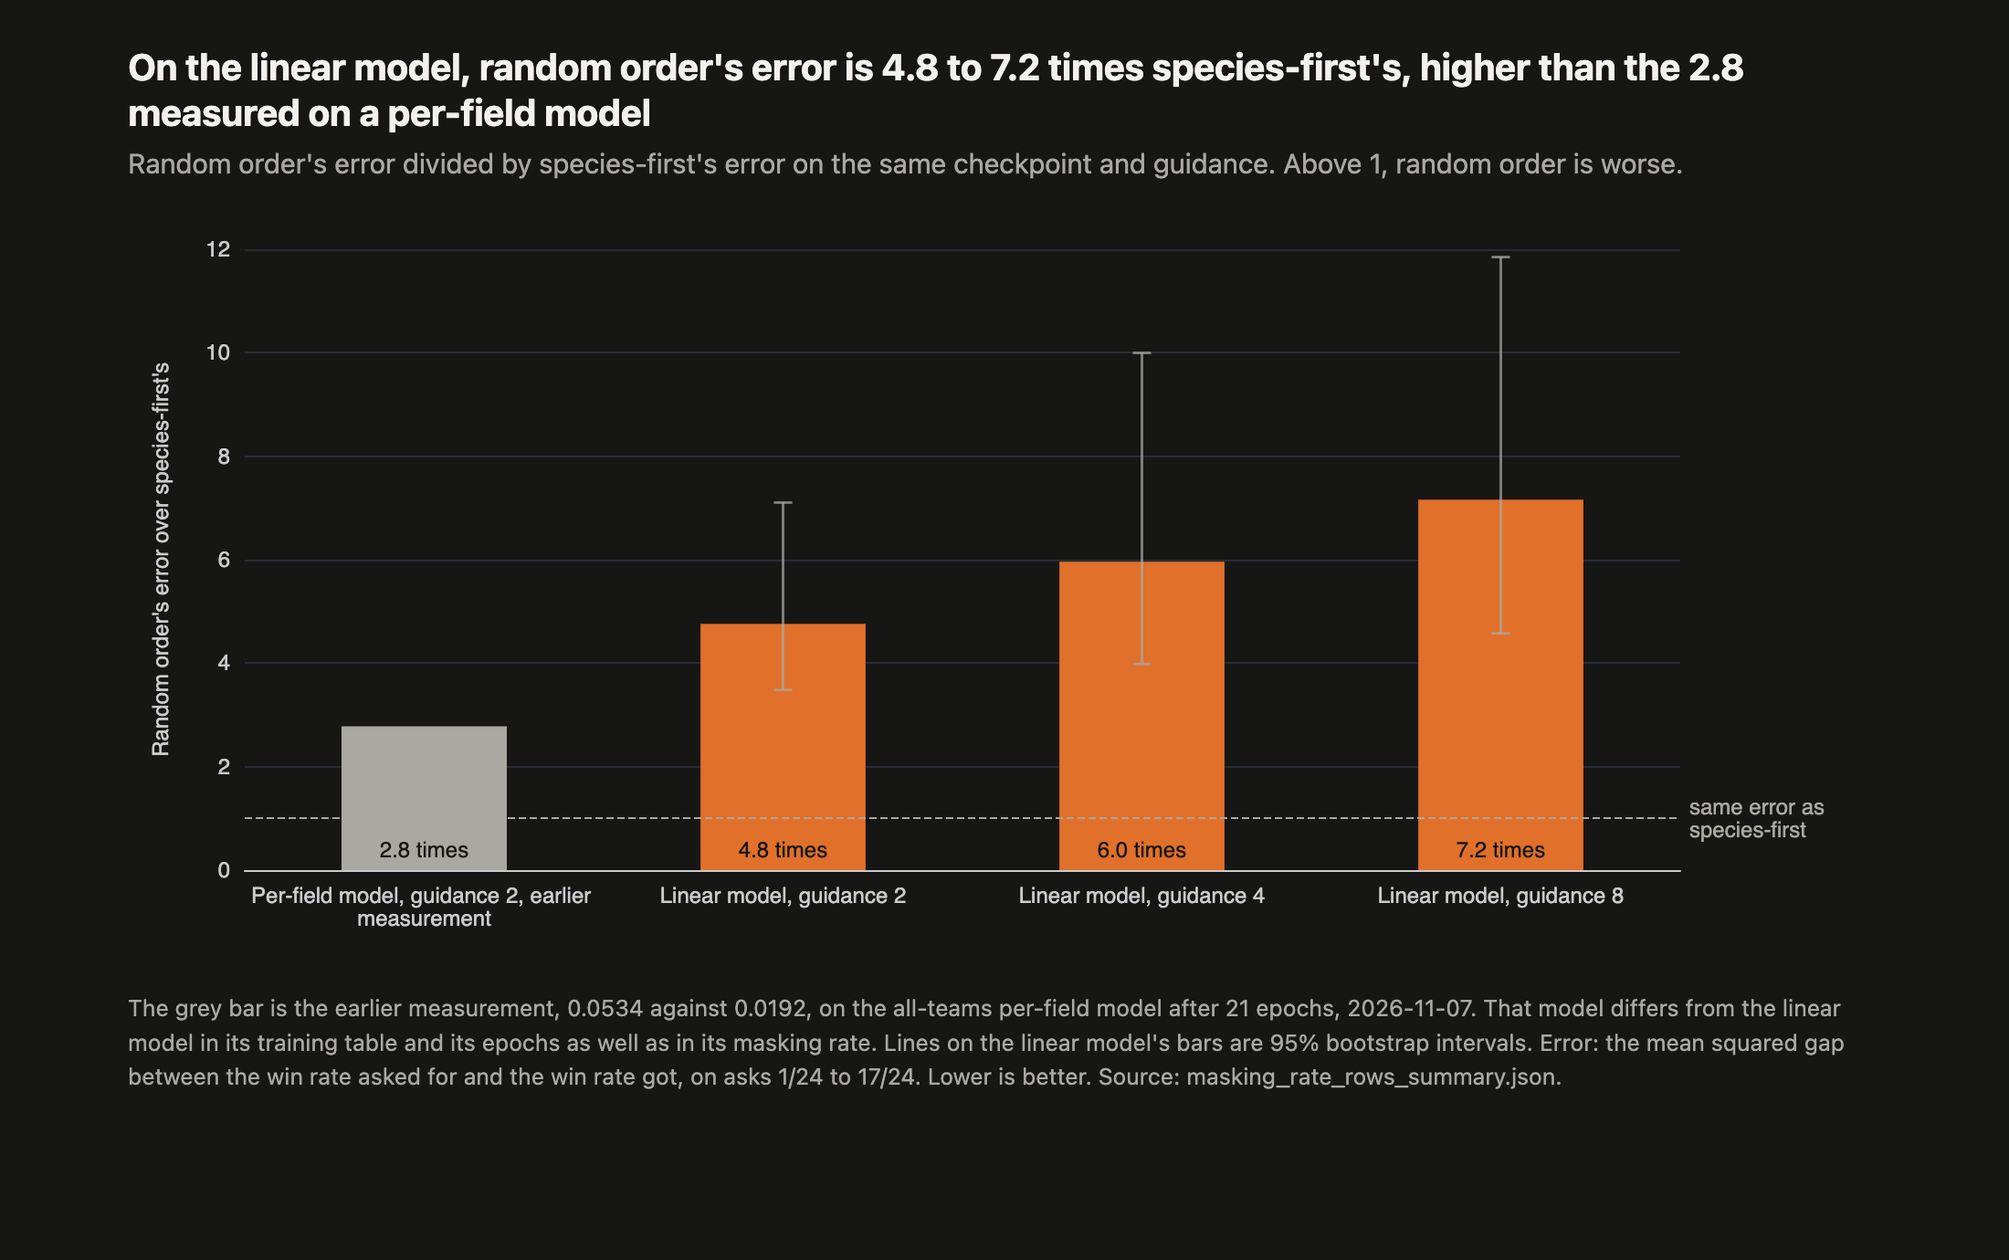
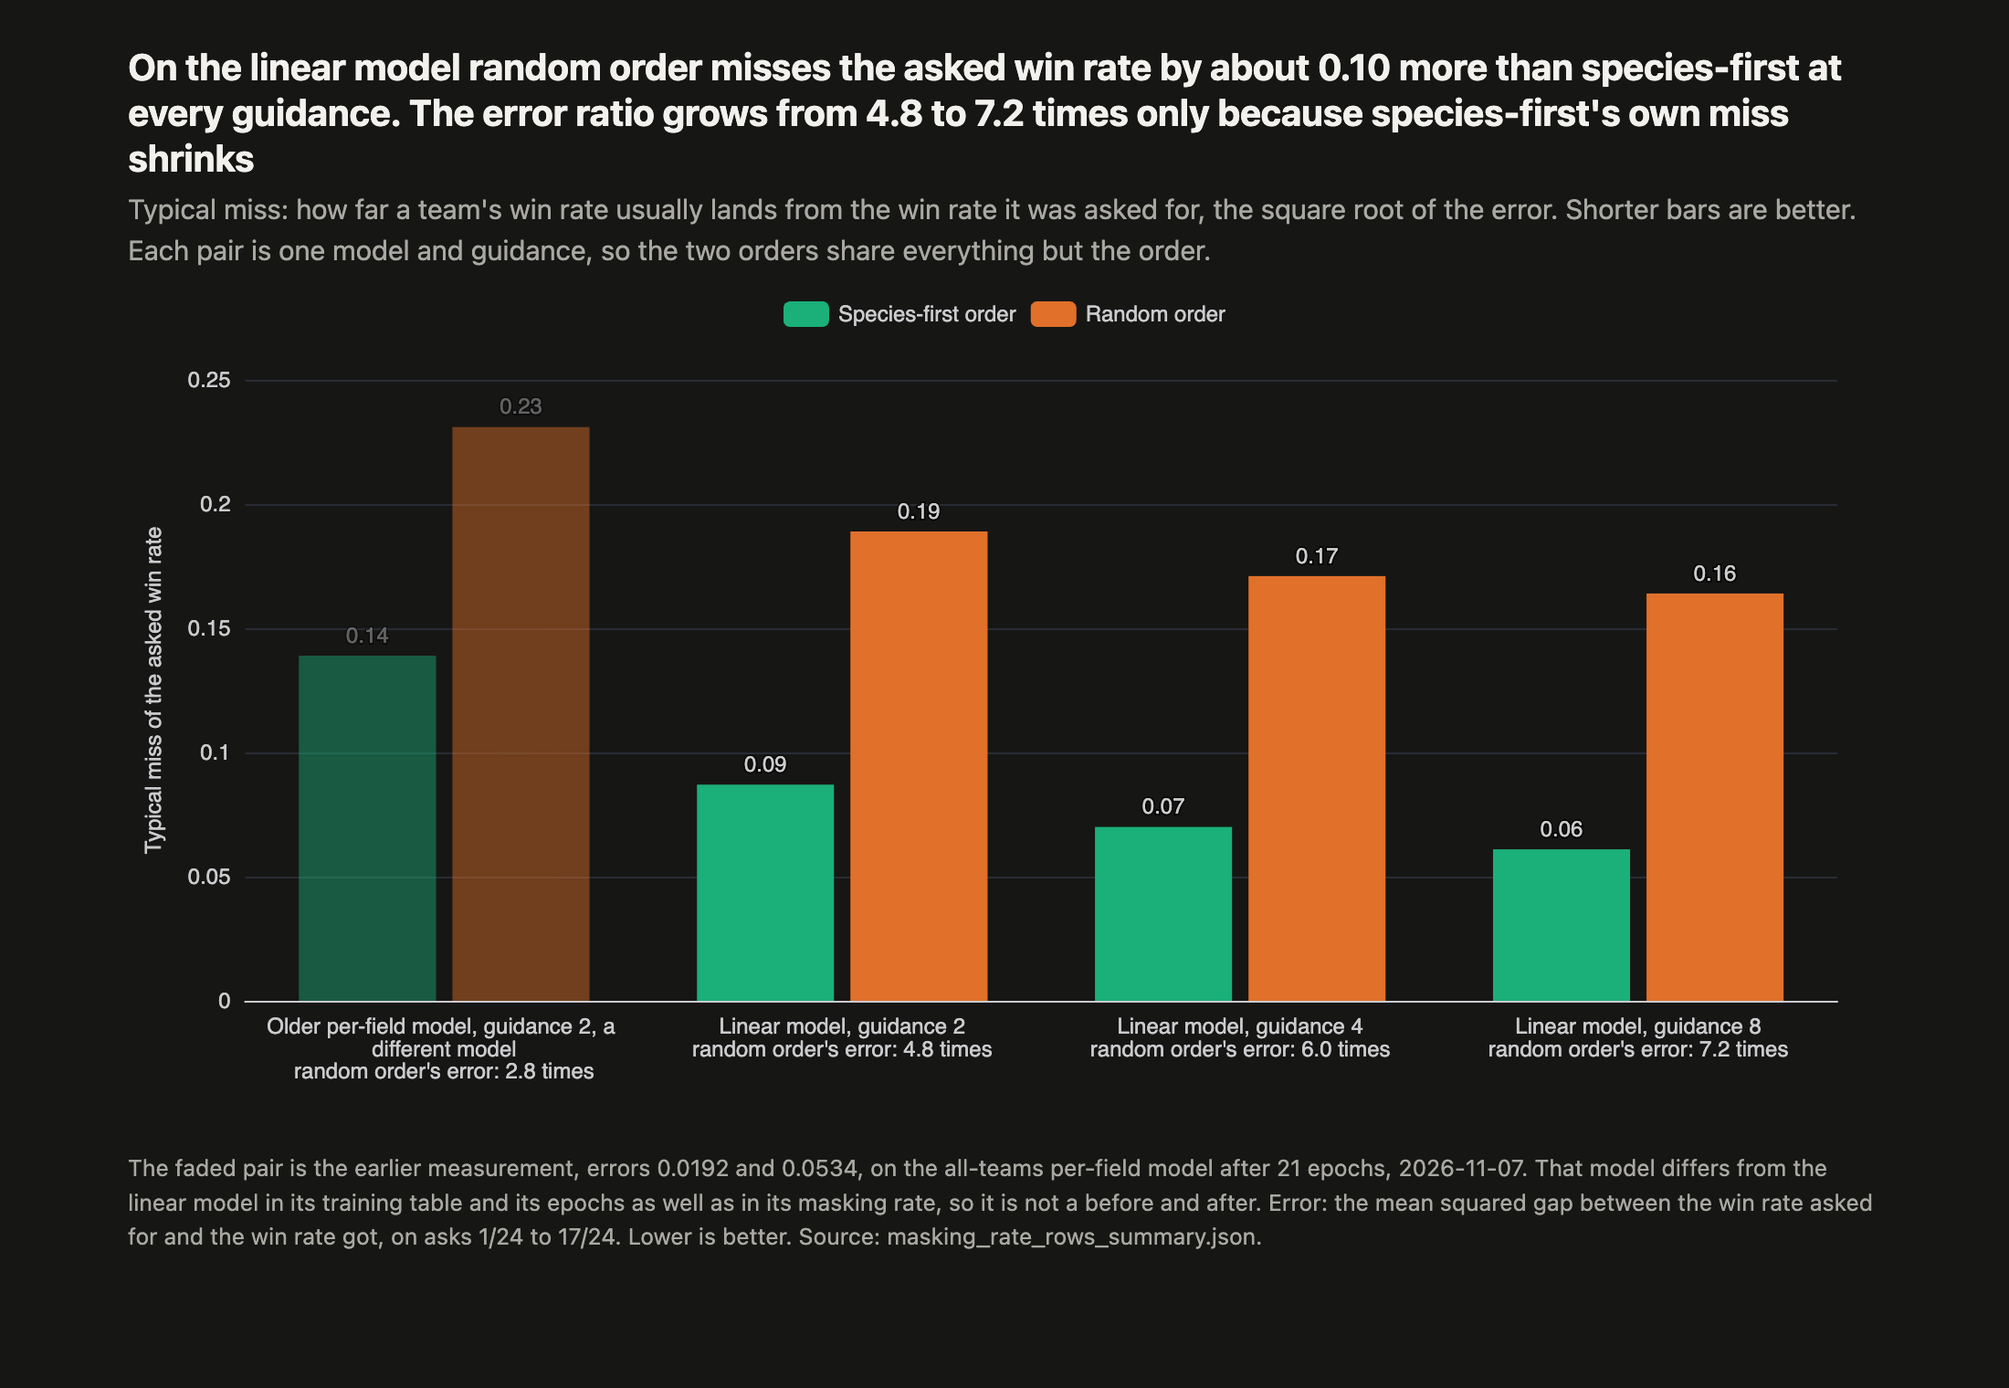
Masking-rate rows figure 7: show each order's typical miss side by side instead of the ratio of their errors (#297)
The ratio grew from 4.8 to 7.2 because species-first's own miss shrank; the gap stays about 0.10 at every guidance.

diff --git a/code/docs/figures/masking_rate_rows/07_random_order_error_multiple.html b/code/docs/figures/masking_rate_rows/07_random_order_error_multiple.html
@@ -3,7 +3,7 @@
 <head>
 <meta charset="utf-8">
 <meta name="viewport" content="width=device-width, initial-scale=1">
-<title>On the linear model, random order&#x27;s error is 4.8 to 7.2 times species-first&#x27;s, higher than the 2.8 measured on a per-field model</title>
+<title>On the linear model random order misses the asked win rate by about 0.10 more than species-first at every guidance. The error ratio grows from 4.8 to 7.2 times only because species-first&#x27;s own miss shrinks</title>
 <style>
 :root{--bg:#fcfcfb;--ink:#0b0b0b;--ink2:#52514e;color-scheme:light}
 @media (prefers-color-scheme:dark){:root{--bg:#161615;--ink:#f2f1ee;--ink2:#a9a8a2;color-scheme:dark}}
@@ -13,21 +13,21 @@ h1{font-size:20px;line-height:1.25;margin:0}
 h1,.sub,.note{white-space:pre-line}
 .sub,.note{color:var(--ink2);margin:4px 0 12px}
 .note{font-size:12.5px;margin-top:10px}
-#chart{width:100%;height:420px}
+#chart{width:100%;height:460px}
 </style>
 </head>
 <body>
 <main>
-<h1>On the linear model, random order&#x27;s error is 4.8 to 7.2 times species-first&#x27;s, higher than the 2.8 measured on a per-field model</h1>
-<p class="sub">Random order&#x27;s error divided by species-first&#x27;s error on the same checkpoint and guidance. Above 1, random order is worse.</p>
+<h1>On the linear model random order misses the asked win rate by about 0.10 more than species-first at every guidance. The error ratio grows from 4.8 to 7.2 times only because species-first&#x27;s own miss shrinks</h1>
+<p class="sub">Typical miss: how far a team&#x27;s win rate usually lands from the win rate it was asked for, the square root of the error. Shorter bars are better. Each pair is one model and guidance, so the two orders share everything but the order.</p>
 <div id="chart"></div>
-<p class="note">The grey bar is the earlier measurement, 0.0534 against 0.0192, on the all-teams per-field model after 21 epochs, 2026-11-07. That model differs from the linear model in its training table and its epochs as well as in its masking rate. Lines on the linear model&#x27;s bars are 95% bootstrap intervals. Error: the mean squared gap between the win rate asked for and the win rate got, on asks 1/24 to 17/24. Lower is better. Source: masking_rate_rows_summary.json.</p>
+<p class="note">The faded pair is the earlier measurement, errors 0.0192 and 0.0534, on the all-teams per-field model after 21 epochs, 2026-11-07. That model differs from the linear model in its training table and its epochs as well as in its masking rate, so it is not a before and after. Error: the mean squared gap between the win rate asked for and the win rate got, on asks 1/24 to 17/24. Lower is better. Source: masking_rate_rows_summary.json.</p>
 </main>
 <script src="https://cdn.jsdelivr.net/npm/echarts@6.1.0/dist/echarts.min.js"></script>
 <script>
 const revive = o => typeof o === "string" && o.startsWith("js:") ? (0, eval)("(" + o.slice(3) + ")")
   : Array.isArray(o) ? o.map(revive) : o && typeof o === "object" ? Object.fromEntries(Object.entries(o).map(([k, v]) => [k, revive(v)])) : o;
-const option = revive({"grid": {"left": 64, "right": 110, "top": 24, "bottom": 56}, "tooltip": {"trigger": "item", "valueFormatter": "js:v => v.toFixed(2) + ' times'"}, "xAxis": {"type": "category", "data": ["Per-field model, guidance 2, earlier measurement", "Linear model, guidance 2", "Linear model, guidance 4", "Linear model, guidance 8"], "axisLabel": {"interval": 0, "width": 190, "overflow": "break"}}, "yAxis": {"type": "value", "name": "Random order's error over species-first's", "nameLocation": "middle", "nameGap": 40, "min": 0}, "series": [{"name": "Random order's error over species-first's", "type": "bar", "barWidth": "46%", "data": [{"value": 2.78, "itemStyle": {"color": "#a9a8a2"}}, {"value": 4.76, "itemStyle": {"color": "#e0702a"}}, {"value": 5.96, "itemStyle": {"color": "#e0702a"}}, {"value": 7.16, "itemStyle": {"color": "#e0702a"}}], "emphasis": {"focus": "series"}, "label": {"show": true, "position": "insideBottom", "formatter": "js:p => p.value.toFixed(1) + ' times'", "color": "#161615"}, "markLine": {"symbol": "none", "silent": true, "lineStyle": {"color": "#6f6e69", "type": "dashed"}, "label": {"formatter": "same error as\nspecies-first", "position": "end", "color": "#6f6e69"}, "data": [{"yAxis": 1}]}}, {"type": "custom", "name": "95% interval", "renderItem": "js:(p, api) => { const x = api.value(0), lo = api.coord([x, api.value(1)]), hi = api.coord([x, api.value(2)]); const c = api.visual('color'), w = 5, s = {stroke: c, lineWidth: 1.4, opacity: 0.75}; const seg = (x1, y1, x2, y2) => ({type: 'line', shape: {x1, y1, x2, y2}, style: s}); return {type: 'group', children: [seg(lo[0], lo[1], hi[0], hi[1]), seg(lo[0] - w, lo[1], lo[0] + w, lo[1]), seg(hi[0] - w, hi[1], hi[0] + w, hi[1])]}; }", "itemStyle": {"color": "#6f6e69"}, "silent": true, "tooltip": {"show": false}, "z": 4, "encode": {"x": 0, "y": [1, 2]}, "data": [[1, 3.48371184756289, 7.1040341547971755], [2, 3.9826720294980293, 9.996730421651085], [3, 4.576810930079729, 11.849279665167696]]}]}), darkMap = {"#0b0b0b": "#f2f1ee", "#1f1f1e": "#f2f1ee", "#52514e": "#c3c2b7", "#5f5e5a": "#c3c2b7", "#6f6e69": "#a9a8a2", "#fff": "#161615", "#ffffff": "#161615"};
+const option = revive({"grid": {"left": 64, "right": 24, "top": 48, "bottom": 72}, "legend": {"top": 0}, "tooltip": {"trigger": "axis", "valueFormatter": "js:v => v.toFixed(3)"}, "xAxis": {"type": "category", "data": ["Older per-field model, guidance 2, a different model\nrandom order's error: 2.8 times", "Linear model, guidance 2\nrandom order's error: 4.8 times", "Linear model, guidance 4\nrandom order's error: 6.0 times", "Linear model, guidance 8\nrandom order's error: 7.2 times"], "axisLabel": {"interval": 0, "width": 210, "overflow": "break"}}, "yAxis": {"type": "value", "name": "Typical miss of the asked win rate", "nameLocation": "middle", "nameGap": 44, "min": 0}, "series": [{"name": "Species-first order", "type": "bar", "barGap": "12%", "itemStyle": {"color": "#1baf7a"}, "data": [{"value": 0.139, "itemStyle": {"color": "#1baf7a", "opacity": 0.45}}, {"value": 0.087, "itemStyle": {"color": "#1baf7a", "opacity": 1.0}}, {"value": 0.07, "itemStyle": {"color": "#1baf7a", "opacity": 1.0}}, {"value": 0.061, "itemStyle": {"color": "#1baf7a", "opacity": 1.0}}], "label": {"show": true, "position": "top", "formatter": "js:p => p.value.toFixed(2)"}, "emphasis": {"focus": "series"}}, {"name": "Random order", "type": "bar", "itemStyle": {"color": "#e0702a"}, "data": [{"value": 0.231, "itemStyle": {"color": "#e0702a", "opacity": 0.45}}, {"value": 0.189, "itemStyle": {"color": "#e0702a", "opacity": 1.0}}, {"value": 0.171, "itemStyle": {"color": "#e0702a", "opacity": 1.0}}, {"value": 0.164, "itemStyle": {"color": "#e0702a", "opacity": 1.0}}], "label": {"show": true, "position": "top", "formatter": "js:p => p.value.toFixed(2)"}, "emphasis": {"focus": "series"}}]}), darkMap = {"#0b0b0b": "#f2f1ee", "#1f1f1e": "#f2f1ee", "#52514e": "#c3c2b7", "#5f5e5a": "#c3c2b7", "#6f6e69": "#a9a8a2", "#fff": "#161615", "#ffffff": "#161615"};
 const swap = o => typeof o === "string" ? (darkMap[o.toLowerCase()] || o) : Array.isArray(o) ? o.map(swap)
   : o && typeof o === "object" && typeof o !== "function" ? Object.fromEntries(Object.entries(o).map(([k, v]) => [k, swap(v)])) : o;
 const el = document.getElementById("chart"), dark = matchMedia("(prefers-color-scheme: dark)");

diff --git a/code/src/masking_rate_rows_figures.py b/code/src/masking_rate_rows_figures.py
@@ -12,6 +12,7 @@ Each builder takes the loaded summary (masking_rate_rows_summary.json) and retur
     /tmp/vgc-pilot/.venv/bin/python src/masking_rate_rows_figures.py      (from code/)
 """
 import json
+import math
 from pathlib import Path
 
 from echarts_chart import write_chart
@@ -109,27 +110,32 @@ def got_against_ask(summary):
 
 
 def random_order_error_multiple(summary):
+    """Frame 3, redrawn 2026-11-14: the typical miss of each order side by side, not the ratio of their errors. A ratio grows
+    when the number under it shrinks, so the bars show both misses and the axis labels carry the ratio."""
     measured = summary["random_order_against_species_first"]
-    earlier = PER_FIELD_MULTIPLE["random"] / PER_FIELD_MULTIPLE["species_first"]
-    names = ["Per-field model, guidance 2, earlier measurement"] + [f"Linear model, guidance {g}" for g in GUIDANCES]
-    values = [earlier] + [measured[f"guidance_{g}"]["error_multiple"] for g in GUIDANCES]
-    intervals = [measured[f"guidance_{g}"]["error_multiple_interval"] for g in GUIDANCES]
-    bars = [dict(value=round(v, 2), itemStyle=dict(color=GREY if i == 0 else ORANGE)) for i, v in enumerate(values)]
-    series = [dict(name="Random order's error over species-first's", type="bar", barWidth="46%", data=bars, emphasis=dict(focus="series"),
-                   label=dict(show=True, position="insideBottom", formatter="js:p => p.value.toFixed(1) + ' times'", color="#161615"),
-                   markLine=dict(symbol="none", silent=True, lineStyle=dict(color=PLAIN, type="dashed"),
-                                 label=dict(formatter="same error as\nspecies-first", position="end", color=PLAIN),
-                                 data=[dict(yAxis=1)])),
-              error_bars("95% interval", PLAIN, [[i + 1, *iv] for i, iv in enumerate(intervals)], z=4)]
-    option = dict(grid=dict(left=64, right=110, top=24, bottom=56), tooltip=dict(trigger="item", valueFormatter="js:v => v.toFixed(2) + ' times'"),
-                  xAxis=dict(type="category", data=names, axisLabel=dict(interval=0, width=190, overflow="break")),
-                  yAxis=dict(type="value", name="Random order's error over species-first's", nameLocation="middle", nameGap=40, min=0),
+    miss = lambda error: math.sqrt(error)
+    groups = [("Older per-field model, guidance 2, a different model", PER_FIELD_MULTIPLE["species_first"], PER_FIELD_MULTIPLE["random"], 0.45)]
+    groups += [(f"Linear model, guidance {g}", summary["grids"][grid_name(LINEAR, g)]["error"], summary["grids"][grid_name(RANDOM, g)]["error"], 1.0)
+               for g in GUIDANCES]
+    multiples = [PER_FIELD_MULTIPLE["random"] / PER_FIELD_MULTIPLE["species_first"]] + [measured[f"guidance_{g}"]["error_multiple"] for g in GUIDANCES]
+    names = [f"{name}\nrandom order's error: {m:.1f} times" for (name, *_), m in zip(groups, multiples)]
+    bar = lambda value, colour, opacity: dict(value=round(value, 3), itemStyle=dict(color=colour, opacity=opacity))
+    label = dict(show=True, position="top", formatter="js:p => p.value.toFixed(2)")
+    series = [dict(name="Species-first order", type="bar", barGap="12%", itemStyle=dict(color=AQUA), data=[bar(miss(s), AQUA, o) for _, s, _, o in groups], label=label, emphasis=dict(focus="series")),
+              dict(name="Random order", type="bar", itemStyle=dict(color=ORANGE), data=[bar(miss(r), ORANGE, o) for _, _, r, o in groups], label=label, emphasis=dict(focus="series"))]
+    option = dict(grid=dict(left=64, right=24, top=48, bottom=72), legend=dict(top=0),
+                  tooltip=dict(trigger="axis", valueFormatter="js:v => v.toFixed(3)"),
+                  xAxis=dict(type="category", data=names, axisLabel=dict(interval=0, width=210, overflow="break")),
+                  yAxis=dict(type="value", name="Typical miss of the asked win rate", nameLocation="middle", nameGap=44, min=0),
                   series=series)
-    lo, hi = min(values[1:]), max(values[1:])
-    if lo > earlier: verdict = f"higher than the {earlier:.1f} measured on a per-field model"
-    elif hi < 1: verdict = "below species-first's"
-    else: verdict = f"against {earlier:.1f} on a per-field model"
-    return option, f"On the linear model, random order's error is {lo:.1f} to {hi:.1f} times species-first's, {verdict}"
+    gaps = [miss(r) - miss(s) for _, s, r, _ in groups[1:]]
+    lo, hi = min(gaps), max(gaps)
+    if hi - lo <= 0.01 and lo > 0:
+        title = (f"On the linear model random order misses the asked win rate by about {(lo + hi) / 2:.2f} more than species-first at every guidance. "
+                 f"The error ratio grows from {multiples[1]:.1f} to {multiples[-1]:.1f} times only because species-first's own miss shrinks")
+    else:
+        title = f"On the linear model random order misses the asked win rate by {lo:.2f} to {hi:.2f} more than species-first"
+    return option, title
 
 
 def spoken(values):
@@ -267,11 +273,12 @@ def main(summary_path=SUMMARY, out=OUT):
                              subtitle="Mean win rate got at each ask, against the dashed line where got equals ask. Linear, random order is left out."))
     option, title = random_order_error_multiple(summary)
     pages.append(write_chart(
-        option, out / "07_random_order_error_multiple.html", title,
-        subtitle="Random order's error divided by species-first's error on the same checkpoint and guidance. Above 1, random order is worse.",
-        note=f"The grey bar is the earlier measurement, {PER_FIELD_MULTIPLE['random']} against {PER_FIELD_MULTIPLE['species_first']}, on the all-teams "
+        option, out / "07_random_order_error_multiple.html", title, height=460,
+        subtitle="Typical miss: how far a team's win rate usually lands from the win rate it was asked for, the square root of the error. "
+                 "Shorter bars are better. Each pair is one model and guidance, so the two orders share everything but the order.",
+        note=f"The faded pair is the earlier measurement, errors {PER_FIELD_MULTIPLE['species_first']} and {PER_FIELD_MULTIPLE['random']}, on the all-teams "
              "per-field model after 21 epochs, 2026-11-07. That model differs from the linear model in its training table and its epochs as well as in its "
-             f"masking rate. Lines on the linear model's bars are 95% bootstrap intervals. {ERROR} Source: {Path(summary_path).name}."))
+             f"masking rate, so it is not a before and after. {ERROR} Source: {Path(summary_path).name}."))
     option, title, subtitle = line_ups_by_ask(summary)
     pages.append(write_chart(option, out / "08_line_ups_by_ask.html", title, subtitle=subtitle, height=440,
                              note=f"A line-up is a distinct set of six species. Each point pools 3 sampling seeds of 64 teams. Source: {Path(summary_path).name}."))

diff --git a/code/scripts/test_masking_rate_rows.py b/code/scripts/test_masking_rate_rows.py
@@ -208,14 +208,19 @@ class Figures(unittest.TestCase):
         self.assertEqual(option["series"][0]["markLine"]["data"], [dict(xAxis=17)])
         self.assertIn("does not lift got", title); self.assertIn("at most 0.010", title)
 
-    def test_random_order_multiple_puts_the_earlier_bar_first_then_the_three_guidance_values(self):
-        option, title = F.random_order_error_multiple(self.summary())
-        bars, intervals = option["series"]
-        self.assertEqual([b["value"] for b in bars["data"]], [round(0.0534 / 0.0192, 2), 4.5, 5.5, 6.5])
-        self.assertEqual(bars["data"][0]["itemStyle"]["color"], F.GREY)
-        self.assertEqual(intervals["data"], [[1, 3.5, 6.5], [2, 4.5, 7.5], [3, 5.5, 8.5]])
-        self.assertEqual(bars["markLine"]["data"], [dict(yAxis=1)])
-        self.assertEqual(title, "On the linear model, random order's error is 4.5 to 6.5 times species-first's, higher than the 2.8 measured on a per-field model")
+    def test_random_order_figure_shows_both_misses_side_by_side_with_the_ratio_in_the_labels(self):
+        summary = self.summary()
+        for g, (s, r) in zip(R.GUIDANCES, ((0.0081, 0.0361), (0.0049, 0.0289), (0.0036, 0.0256))):
+            summary["grids"][R.grid_name(F.LINEAR, g)]["error"], summary["grids"][R.grid_name(F.RANDOM, g)]["error"] = s, r
+        option, title = F.random_order_error_multiple(summary)
+        species_first, random_order = option["series"]
+        self.assertEqual([b["value"] for b in species_first["data"]], [round(0.0192 ** 0.5, 3), 0.09, 0.07, 0.06])
+        self.assertEqual([b["value"] for b in random_order["data"]], [round(0.0534 ** 0.5, 3), 0.19, 0.17, 0.16])
+        self.assertEqual([b["itemStyle"]["opacity"] for b in random_order["data"]], [0.45, 1.0, 1.0, 1.0])
+        self.assertTrue(option["xAxis"]["data"][0].startswith("Older per-field model, guidance 2, a different model"))
+        self.assertIn("random order's error: 4.5 times", option["xAxis"]["data"][1])
+        self.assertEqual(title, "On the linear model random order misses the asked win rate by about 0.10 more than species-first at every guidance. "
+                                "The error ratio grows from 4.5 to 6.5 times only because species-first's own miss shrinks")
 
     def test_line_ups_by_ask_draws_a_line_for_each_guidance_and_names_both_directions(self):
         summary = self.summary()

diff --git a/code/docs/masking-rate-rows.md b/code/docs/masking-rate-rows.md
@@ -466,6 +466,6 @@ Two readings are inferences, not measurements. The first is why the low asks lea
 - Both models are read at epoch 80, where early stopping had not fired.
 - The elite line-up yield has no interval.
 
-Figures: [error against line-ups](figures/masking_rate_rows/05_error_against_line_ups.html), [got against ask](figures/masking_rate_rows/06_got_against_ask.html), [random order's error multiple](figures/masking_rate_rows/07_random_order_error_multiple.html), built by `src/masking_rate_rows_figures.py`. Frame 1 came out as expected. Frame 2 came out as expected: the two lines overlap and stop rising at the same got. Frame 3 came out as its surprise: the multiple rose above 2.8.
+Figures: [error against line-ups](figures/masking_rate_rows/05_error_against_line_ups.html), [got against ask](figures/masking_rate_rows/06_got_against_ask.html), [typical miss of each order](figures/masking_rate_rows/07_random_order_error_multiple.html), built by `src/masking_rate_rows_figures.py`. Frame 1 came out as expected. Frame 2 came out as expected: the two lines overlap and stop rising at the same got. Frame 3 came out as its surprise: the multiple rose above 2.8.
 
 The rejection reasons stored with the random-order grids repeat a word, as in "can'tcan't learn Heat Wave". The fault is in how `ask_grid84.py` shortens a validator message. The counts are right.
